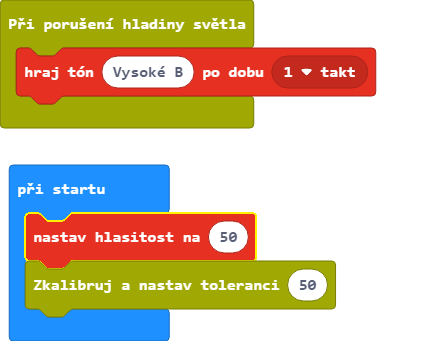
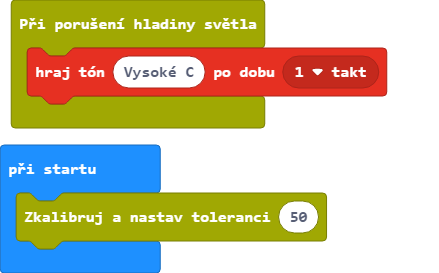
Aktualizovat pxt.json, main.blocks, main.ts, lightgate.ts

diff --git a/lightgate.ts b/lightgate.ts
@@ -1,8 +1,3 @@
-/**
- * Použijte tento soubor k definování personalizovaných funkcí a bloků.
- * Přečtěte si více na https://makecode.microbit.org/blocks/custom
- */
-
 
 /**
  * Custom blocks
@@ -25,7 +20,6 @@ namespace SvetelnaBrana {
             sumOfMeasures += input.lightLevel()
         }
         lightLevel = Math.round(sumOfMeasures / 10)
-        serial.writeLine("" + lightLevel)
         toleration = tol;
     }
 
@@ -53,11 +47,6 @@ namespace SvetelnaBrana {
             }
         })
     }
-
-
-
-    
-
 
 
 

diff --git a/main.ts b/main.ts
@@ -1,5 +1,4 @@
 SvetelnaBrana.onLightDrop(function () {
-    music.playTone(988, music.beat(BeatFraction.Whole))
+    music.playTone(523, music.beat(BeatFraction.Whole))
 })
-music.setVolume(50)
 SvetelnaBrana.spustitKalibraci(50)
